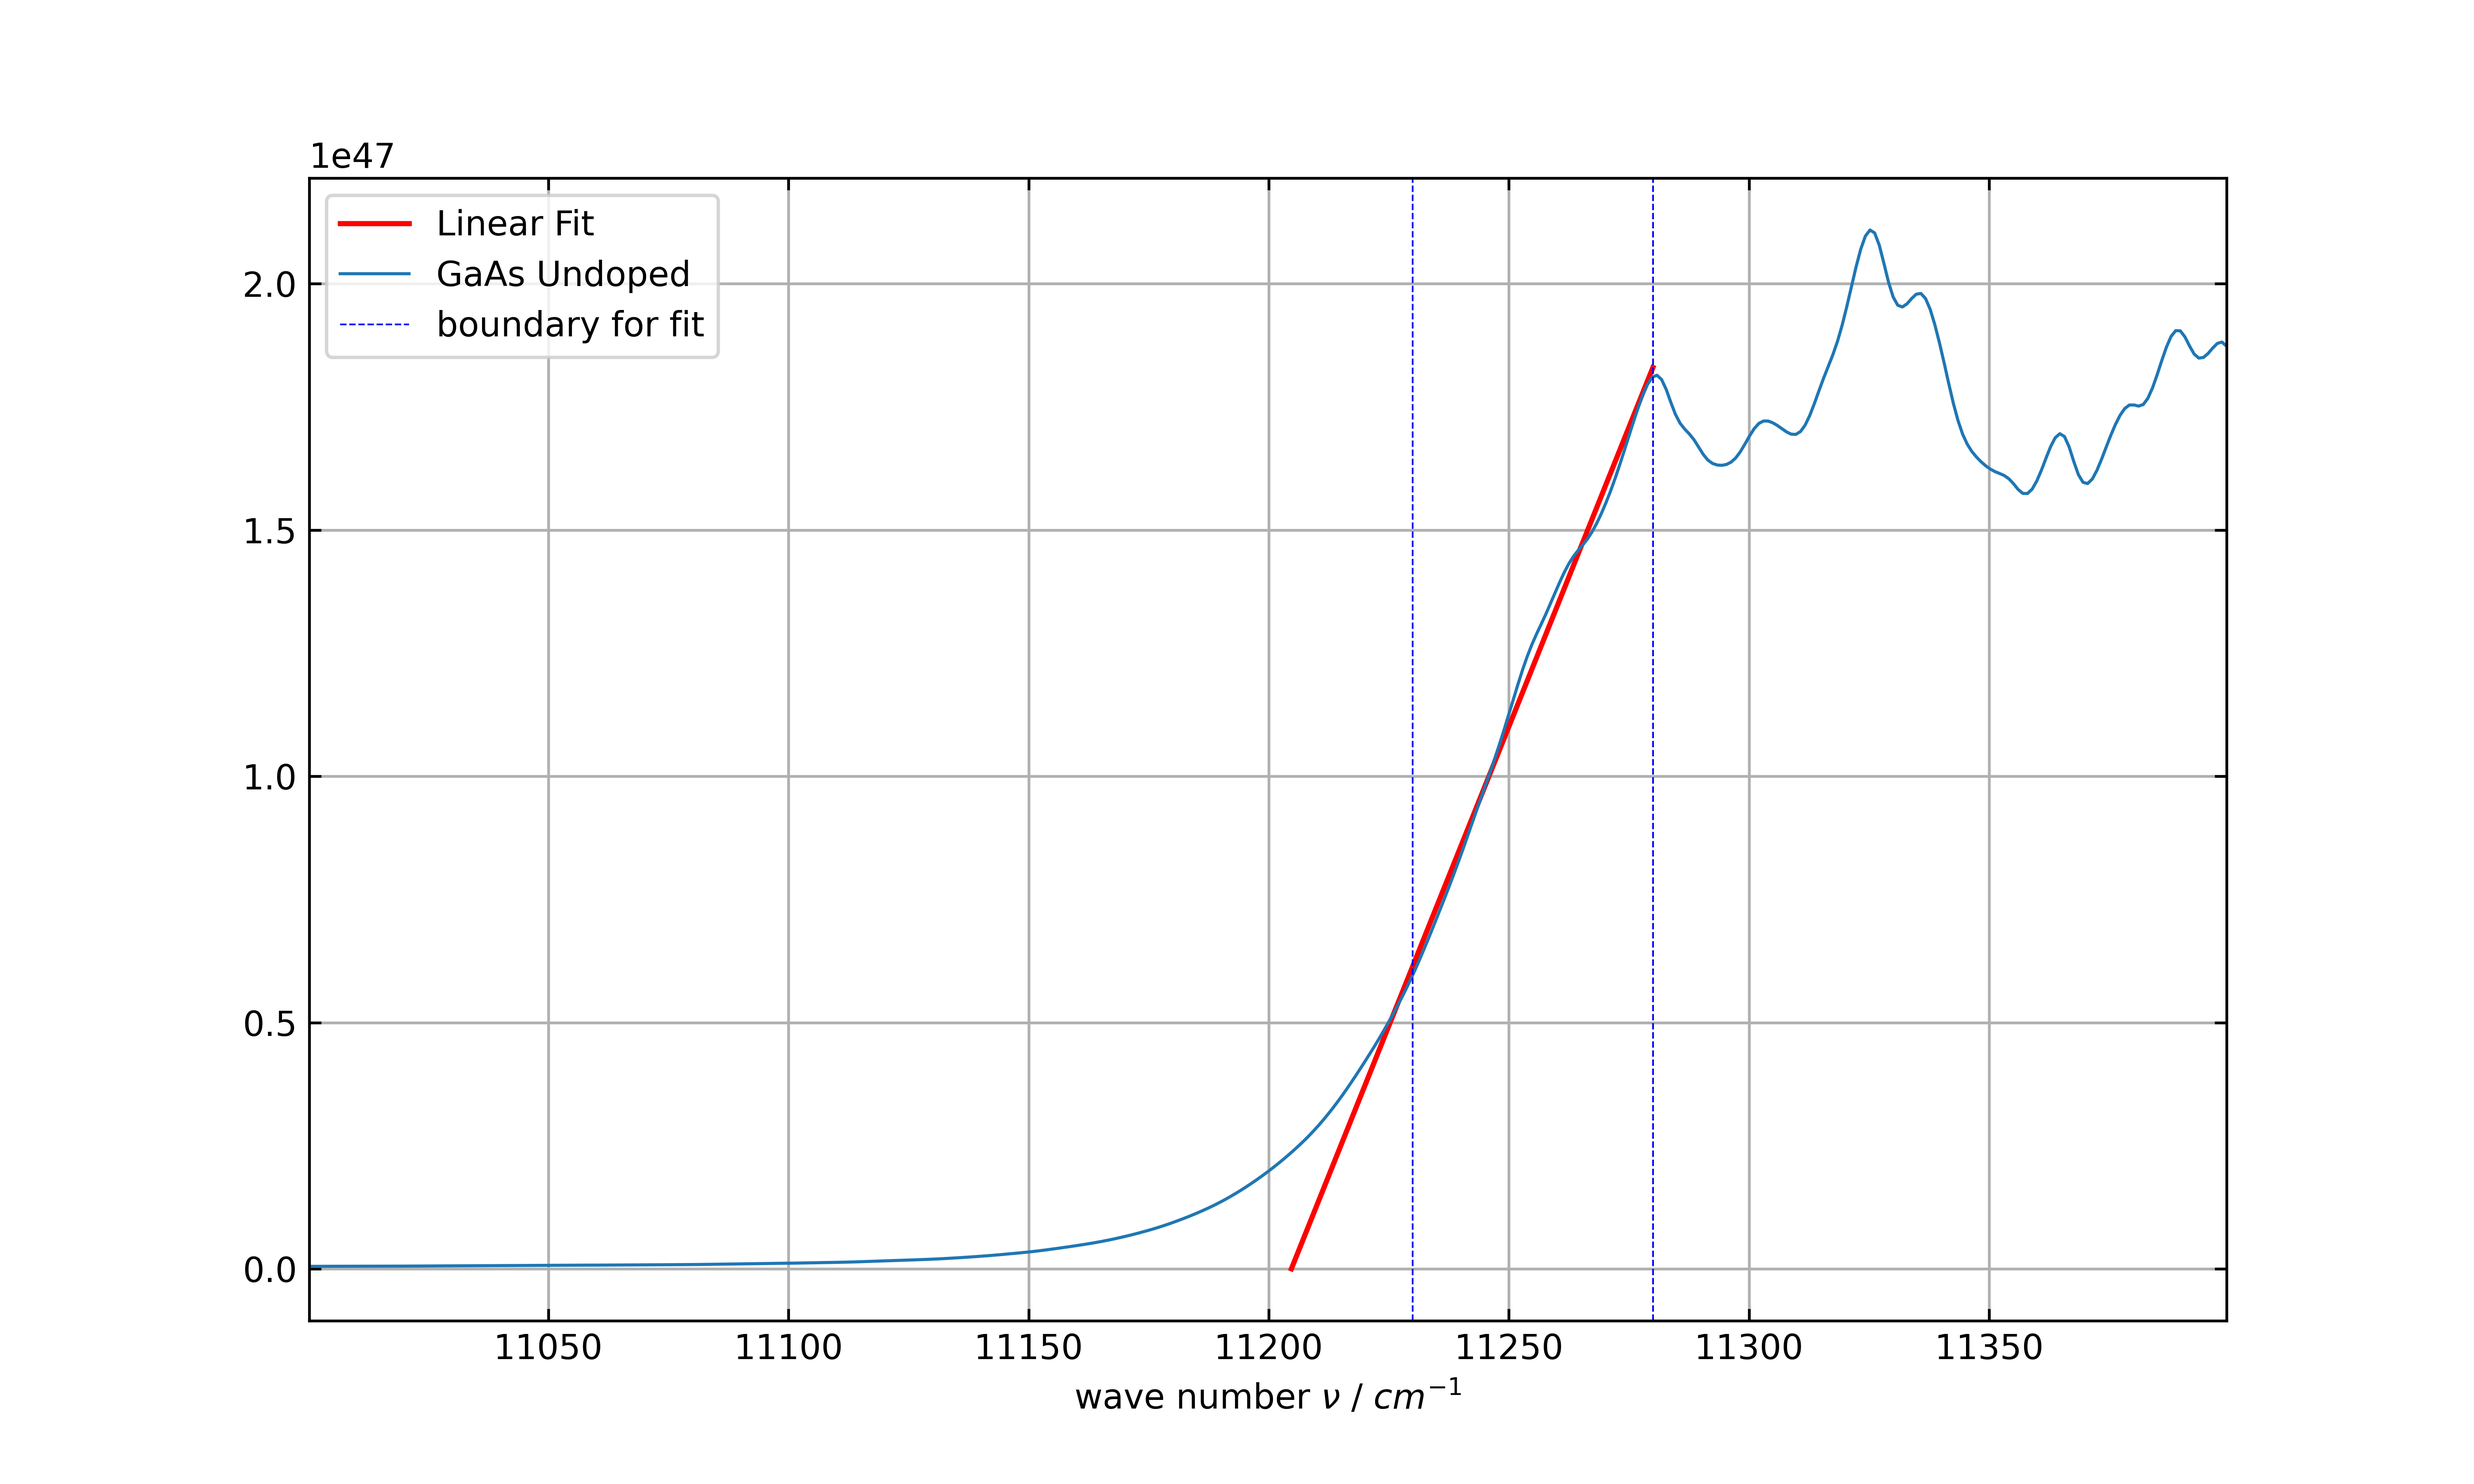
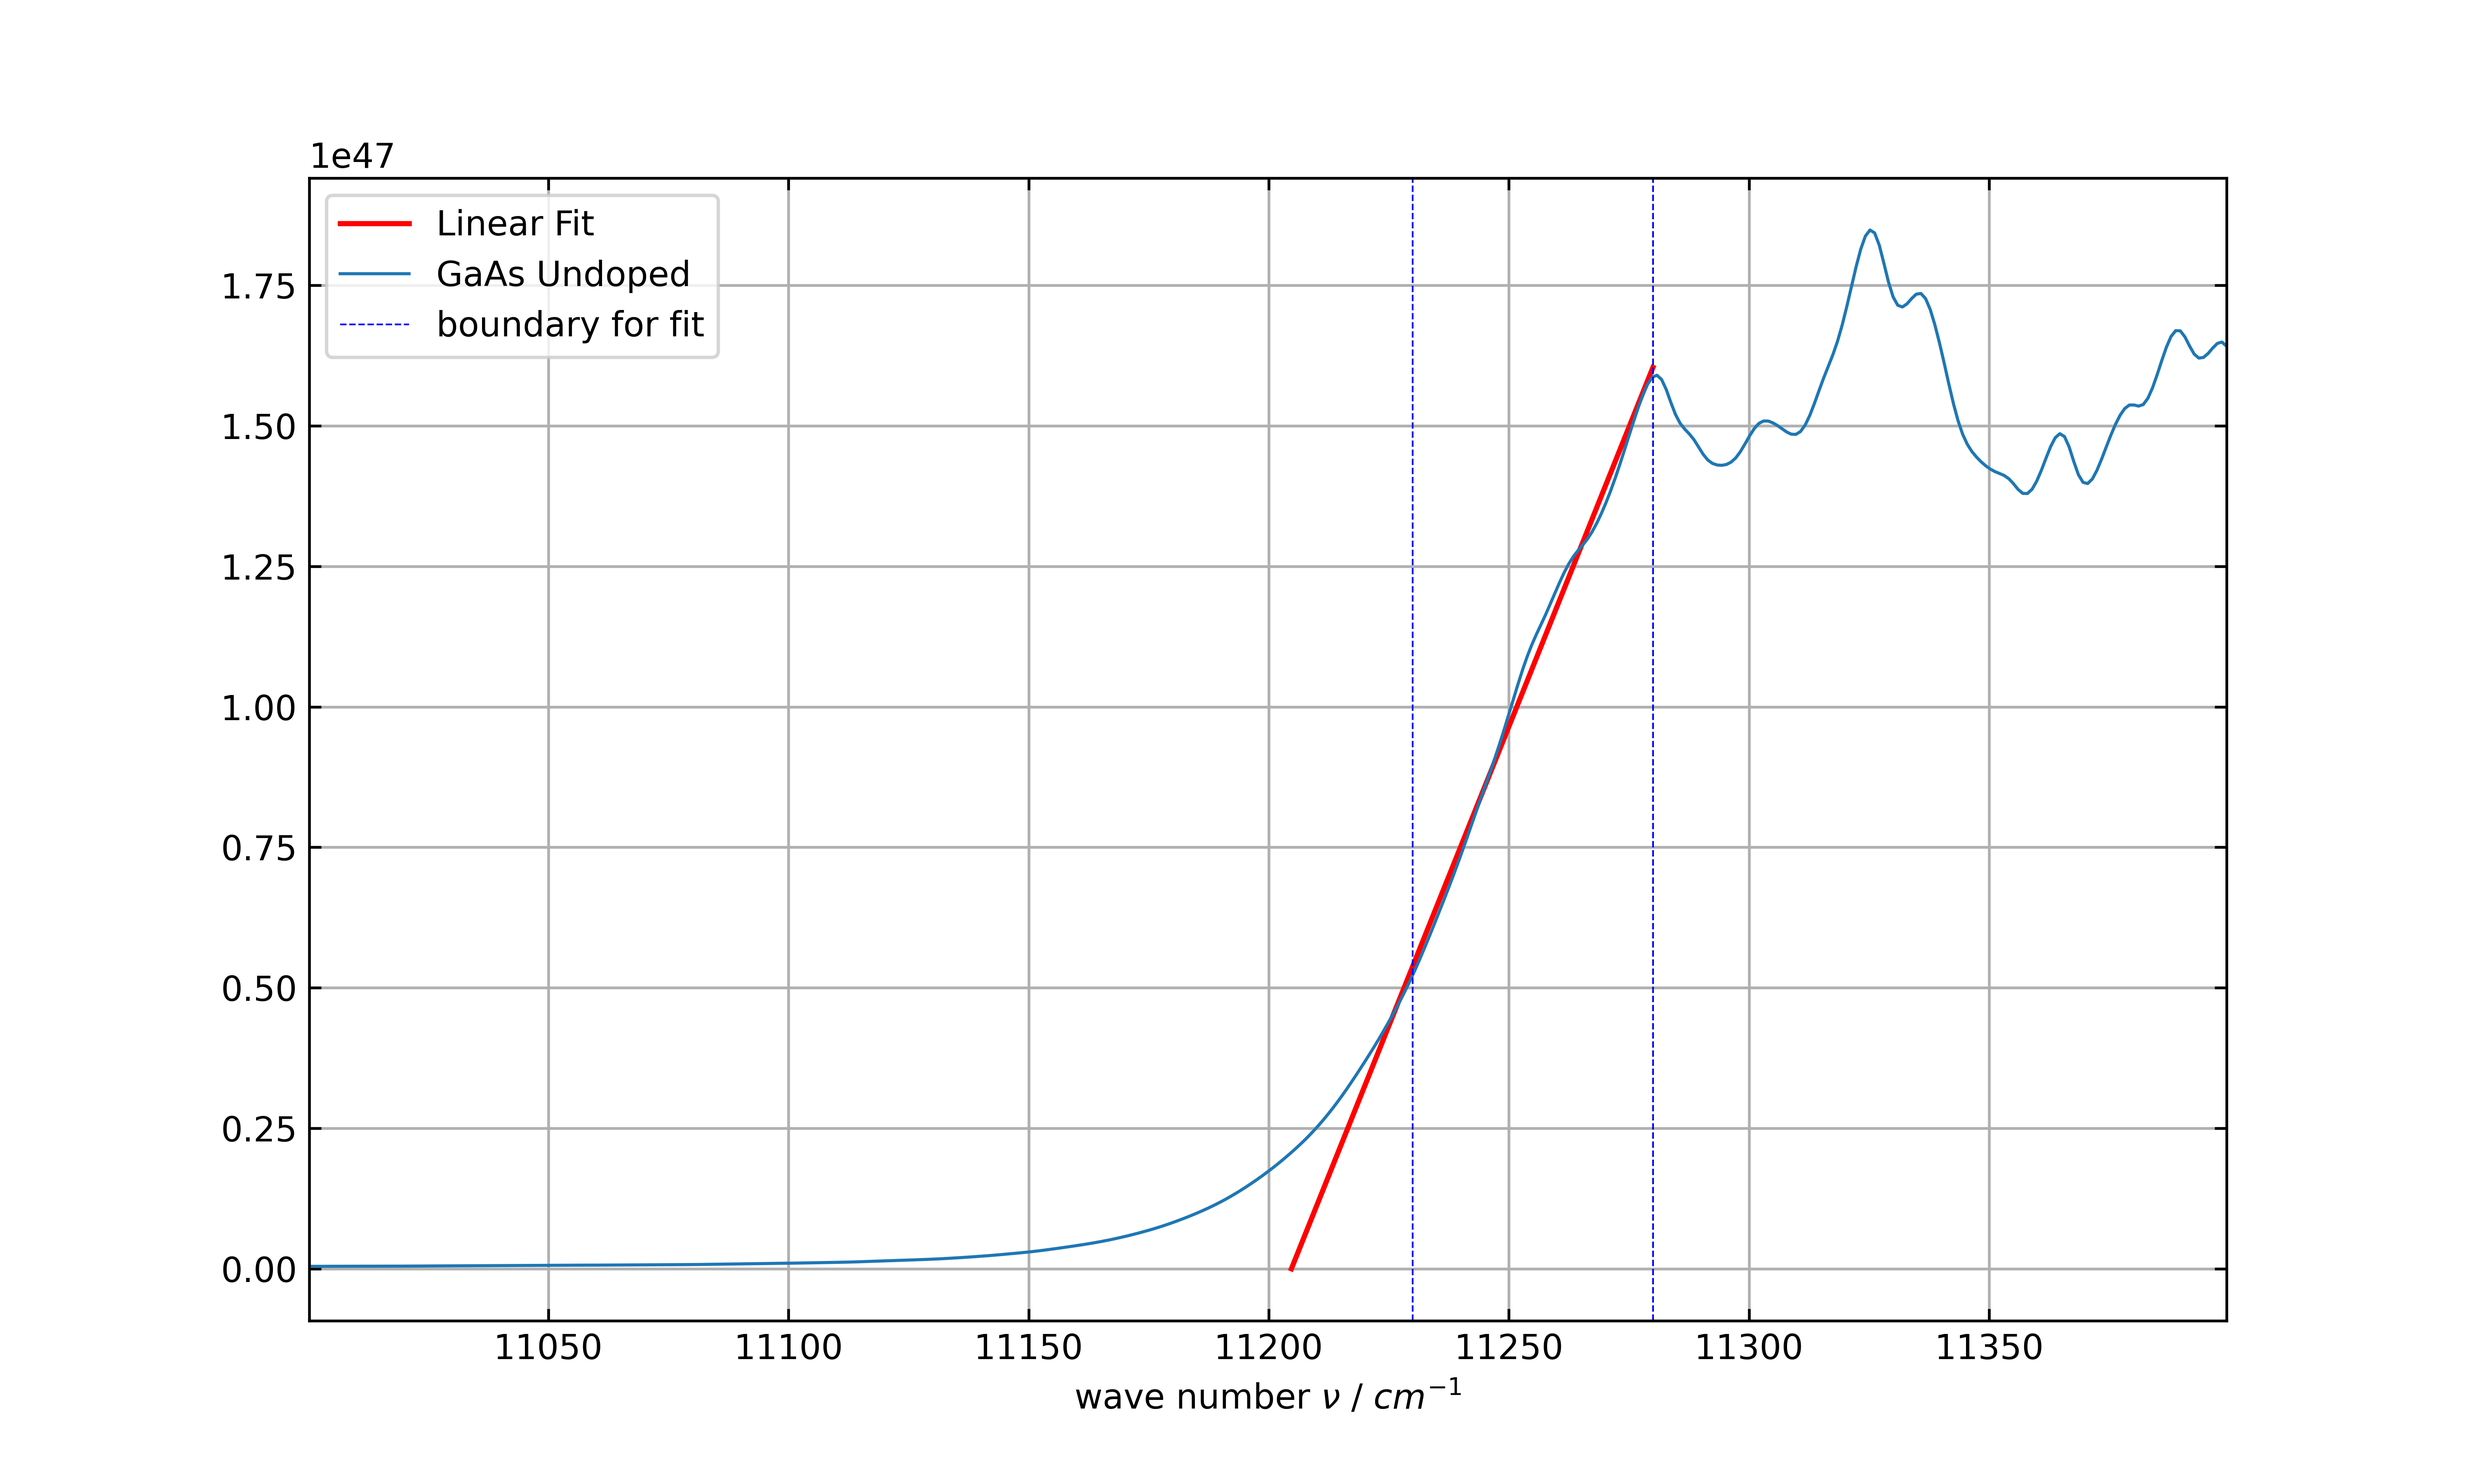
Bandgap plots gemacht

diff --git a/SolidStateOptics/exp4.py b/SolidStateOptics/exp4.py
@@ -20,32 +20,47 @@ c= const.c  # Speed of light in m/s
 mu_GaAs = 0.036872 * const.m_e  # Effective mass of electron in GaAs (müssen quelle finden!!)
 m_e = const.m_e  # Electron mass in kg
 factor = e*e*(2*mu_GaAs)**(3/2)*2*np.pi/(epsilon_0*m_e**2*hbar**3)    
-d = 440*10**-6  # Thickness of the sample in m
 
+reflectionGaAsDo = read_dpt_file(r'.\SolidStateOptics\RawData\Reflection_ex4\refl_GaAs_doped_res4_N50_normalized.DPT')
+transmissionGaAsDo = read_dpt_file(r'.\SolidStateOptics\RawData\Transmission_ex4\GaAs_doped_res4_N50_normalized.DPT')
 
+reflectionGaAsUnDo = read_dpt_file(r'.\SolidStateOptics\RawData\Reflection_ex4\refl_GaAs_undoped_res4_N50_normalized.DPT')
+transmissionGaAsUnDo = read_dpt_file(r'.\SolidStateOptics\RawData\Transmission_ex4\GaAs_undoped_res4_N50_normalized.DPT')
 
-#calculate n
+reflectionGaSbDo = read_dpt_file(r'.\SolidStateOptics\RawData\Reflection_ex4\refl_GaSb_doped_res4_N50_normalized.DPT')
+transmissionGaSbDo = read_dpt_file(r'.\SolidStateOptics\RawData\Transmission_ex4\GaSb_doped_res4_N50_normalized.DPT')
 
-initial_guess = [1,1] # Initial guess for beta and R
+reflectionSiUnDo = read_dpt_file(r'.\SolidStateOptics\RawData\Reflection_ex4\refl_Si_undoped_res4_N50_normalized.DPT')
+transmissionSiUnDo = read_dpt_file(r'.\SolidStateOptics\RawData\Transmission_ex4\Si_undoped_res4_N50_normalized.DPT')
 
-def T_fabry_perot(vars, T_fabry_perot_value):
+reflectionSiDo = read_dpt_file(r'.\SolidStateOptics\RawData\Reflection_ex4\refl_Si_doped_res4_N50_normalized.DPT')
+transmissionSiDo = read_dpt_file(r'.\SolidStateOptics\RawData\Transmission_ex4\Si_doped_res4_N50_normalized.DPT')
+
+samplesOhneSiUn = [
+        (reflectionGaAsDo, transmissionGaAsDo, "GaAs Doped", 440*10**-6),
+        (reflectionGaAsUnDo, transmissionGaAsUnDo, "GaAs Undoped", 470*10**-6),
+        (reflectionGaSbDo, transmissionGaSbDo, "GaSb Doped", 500*10**-6),
+        (reflectionSiUnDo, transmissionSiUnDo, "Si Undoped", 530*10**-6)
+    ]
+
+def T_fabry_perot(vars, T_fabry_perot_value, d):
     beta, R_halbraum = vars
     return T_fabry_perot_value - (1-R_halbraum)**2*np.exp(-beta*d)/(1-R_halbraum**2*np.exp(-2*beta*d))
 
-def R_fabry_perot(vars, R_fabry_perot_value):
+def R_fabry_perot(vars, R_fabry_perot_value, d):
     beta, R_halbraum = vars
     return R_fabry_perot_value -(R_halbraum + (1-R_halbraum)**2*R_halbraum*np.exp(-2*beta*d)/(1-R_halbraum**2*np.exp(-2*beta*d)))
 
-def equations(vars, T_fabry_perot_value, R_fabry_perot_value):
-    return [T_fabry_perot(vars, T_fabry_perot_value), R_fabry_perot(vars, R_fabry_perot_value)]
+def equations(vars, T_fabry_perot_value, R_fabry_perot_value, d):
+    return [T_fabry_perot(vars, T_fabry_perot_value, d), R_fabry_perot(vars, R_fabry_perot_value, d)]
 
 
-def calculate_beta_and_R(ReflectionData, TransmissionData):
+def calculate_beta_and_R(ReflectionData, TransmissionData, d):
     k_beta_R_List = []
     for r, t in zip(bügeln(ReflectionData,1), bügeln(TransmissionData,1)):
         initial_guess = k_beta_R_List[-1][1:] if k_beta_R_List else [10000, 0.3]  # Use last beta and R or default
         #initial_guess = [20000,0.3]
-        beta, R = fsolve(equations, initial_guess, args=(t[1], r[1]))
+        beta, R = fsolve(equations, initial_guess, args=(t[1], r[1], d))
         if beta > 28000:
             beta = k_beta_R_List[-1][1] if k_beta_R_List else 10000  # Use last beta or default
         if R >1:
@@ -54,54 +69,55 @@ def calculate_beta_and_R(ReflectionData, TransmissionData):
     return k_beta_R_List
 
 
-def calculate_kappa(ReflectionData, TransmissionData):
-    k_beta_R_List = calculate_beta_and_R(ReflectionData, TransmissionData)
+def calculate_kappa(ReflectionData, TransmissionData, d):
+    k_beta_R_List = calculate_beta_and_R(ReflectionData, TransmissionData, d)
     k_kappa_R_List = []
     for i in k_beta_R_List:
         k_kappa_R_List.append([i[0], i[1]/(2*i[0]*100), i[2]]) # 100 wegen cm^-1
     return k_kappa_R_List
 
-def calculate_k_n1_kappa(ReflectionData, TransmissionData):
-    k_kappa_R_List = calculate_kappa(ReflectionData, TransmissionData)
+def calculate_k_n1_kappa(ReflectionData, TransmissionData, d):
+    k_kappa_R_List = calculate_kappa(ReflectionData, TransmissionData, d)
     n = []
     for i in k_kappa_R_List:
         k = i[1]
         R = i[2]
         n1 = (1+R+np.sqrt(-k**2-R**2*k**2+2*R*(2+k**2)))/(1-R)
-        n2 = (-1-R+np.sqrt(-k**2-R**2*k**2+2*R*(2+k**2)))/(R-1)
+        #n2 = (-1-R+np.sqrt(-k**2-R**2*k**2+2*R*(2+k**2)))/(R-1)
                 
         n.append([i[0], n1,i[1]])
     return n
 
 def plot_the_ns(glättwert=0.02):
     plt.figure()
-    for reflection, transmission, label in samplesOhneSiUn:
+    for reflection, transmission, label, d in samplesOhneSiUn:
         n = []
-        for i in calculate_k_n1_kappa(reflection, transmission):
+        for i in calculate_k_n1_kappa(reflection, transmission, d):
             n.append([i[0], i[1]])
         plot_data(bügeln(n, glättwert), label=label)
-    plt.xlabel('wave number k / ' + r'$cm^{-1}$')
+    plt.xlabel(r'wave number $\nu$  / ' + r'$cm^{-1}$')
     plt.ylabel('n')
     save_and_open('RefractiveIndicesSmooth')
     
     
-def plot_the_betas():
+def plot_the_betas(title="foo"):
     plt.figure()
-    for reflection, transmission, label in samplesOhneSiUn:
+    for reflection, transmission, label, d in samplesOhneSiUn:
         beta = []
-        for i in calculate_beta_and_R(reflection, transmission):
-            beta.append([i[0], i[1]])
+        for i in calculate_beta_and_R(reflection, transmission, d):
+            beta.append([i[0], i[1]/100])
         plot_data(beta, label=label)
         plt.xlabel(r'wave number $\nu$ / ' + r'$cm^{-1}$')
         plt.ylabel('beta')
 
-    plt.xlabel(r'wave number \nu / ' + r'$cm^{-1}$')
-    plt.ylabel('beta')
-    save_and_open('foo')
+    plt.xlabel(r'wave number $\nu$ / ' + r'$cm^{-1}$')
+    plt.ylabel(r'absorption coefficient $\beta$ / ' + r'$cm^{-1}$')
+    plt.legend()
+    save_and_open(filename=title)
     
     
-def calculate_k_epsilon_2(reflection, transmission):
-    k_n_kappa = calculate_k_n1_kappa(reflection, transmission)
+def calculate_k_epsilon_2(reflection, transmission, d):
+    k_n_kappa = calculate_k_n1_kappa(reflection, transmission, d)
     epsilon_2 = []
     for i in k_n_kappa:
         n = i[1]
@@ -114,9 +130,9 @@ def k_chopper(data, k_min, k_max):
     return [point for point in data if k_min <= point[0] <= k_max]
 
 
-def calculate_KomischeFunktion(reflection, transmission):
+def calculate_KomischeFunktion(reflection, transmission, d):
     
-    k_epsilon_2 = calculate_k_epsilon_2(reflection, transmission)
+    k_epsilon_2 = calculate_k_epsilon_2(reflection, transmission, d)
     
     komischeFunktion = []
     for k, epsilon_2 in k_epsilon_2:
@@ -124,8 +140,8 @@ def calculate_KomischeFunktion(reflection, transmission):
     return komischeFunktion
 
 
-def plotKomischeFunktion(reflection, transmission, k_min, k_max, k_min_regression, k_max_regression, glättwert=0.01, title="foo"):
-    komischeFunktion = bügeln(calculate_KomischeFunktion(reflection, transmission),glättwert)
+def plotKomischeFunktion(reflection, transmission, k_min, k_max, k_min_regression, k_max_regression, d, glättwert=0.01, title="foo"):
+    komischeFunktion = bügeln(calculate_KomischeFunktion(reflection, transmission, d),glättwert)
     
     chopped = k_chopper(komischeFunktion, k_min=k_min_regression, k_max=k_max_regression)
     steig, x_intercept, y_intercept = linear_regression(chopped)
@@ -170,37 +186,8 @@ def linear_regression(komischeFunktion):
     
 
 
-reflectionGaAsDo = read_dpt_file(r'.\SolidStateOptics\RawData\Reflection_ex4\refl_GaAs_doped_res4_N50_normalized.DPT')
-transmissionGaAsDo = read_dpt_file(r'.\SolidStateOptics\RawData\Transmission_ex4\GaAs_doped_res4_N50_normalized.DPT')
-
-reflectionGaAsUnDo = read_dpt_file(r'.\SolidStateOptics\RawData\Reflection_ex4\refl_GaAs_undoped_res4_N50_normalized.DPT')
-transmissionGaAsUnDo = read_dpt_file(r'.\SolidStateOptics\RawData\Transmission_ex4\GaAs_undoped_res4_N50_normalized.DPT')
-
-reflectionGaSbDo = read_dpt_file(r'.\SolidStateOptics\RawData\Reflection_ex4\refl_GaSb_doped_res4_N50_normalized.DPT')
-transmissionGaSbDo = read_dpt_file(r'.\SolidStateOptics\RawData\Transmission_ex4\GaSb_doped_res4_N50_normalized.DPT')
-
-reflectionSiUnDo = read_dpt_file(r'.\SolidStateOptics\RawData\Reflection_ex4\refl_Si_undoped_res4_N50_normalized.DPT')
-transmissionSiUnDo = read_dpt_file(r'.\SolidStateOptics\RawData\Transmission_ex4\Si_undoped_res4_N50_normalized.DPT')
-
-reflectionSiDo = read_dpt_file(r'.\SolidStateOptics\RawData\Reflection_ex4\refl_Si_doped_res4_N50_normalized.DPT')
-transmissionSiDo = read_dpt_file(r'.\SolidStateOptics\RawData\Transmission_ex4\Si_doped_res4_N50_normalized.DPT')
-
-samplesOhneSiUn = [
-        (reflectionGaAsDo, transmissionGaAsDo, "GaAs Doped"),
-        (reflectionGaAsUnDo, transmissionGaAsUnDo, "GaAs Undoped"),
-        (reflectionGaSbDo, transmissionGaSbDo, "GaSb Doped"),
-        (reflectionSiUnDo, transmissionSiUnDo, "Si UnDoped")
-    ]
-
-# n1=[]
-# for i in calculate_n(reflection, transmission):
-#     n1.append([i[0], i[1]])
-# plot_data(n1)
-# save_and_open("foo")
 
 
-
-#plot_the_betas()
 
 # kappa =[]
 # for i in calculate_kappa(reflectionGaAsDo, transmissionGaAsDo):
@@ -211,15 +198,26 @@ samplesOhneSiUn = [
 # save_and_open('foo')
 
 
-plotKomischeFunktion(reflectionGaAsDo, transmissionGaAsDo, 10500, 12000, 11120, 11200, glättwert=0.03, title="GaAs Doped")
-plotKomischeFunktion(reflectionGaAsUnDo, transmissionGaAsUnDo, 11000, 11400, 11230, 11280, glättwert=0.1, title="GaAs Undoped")
-plotKomischeFunktion(reflectionGaSbDo, transmissionGaSbDo, 5000, 6000, 5600, 5680, glättwert=0.1, title="GaSb Doped")
-plotKomischeFunktion(reflectionSiUnDo, transmissionSiUnDo, 9000, 11000, 10050, 10250, glättwert=0.1, title="Si Undoped")
 
 
 
 
-#plot_the_ns(0.005)
+
+
+
+
+
+
+plotKomischeFunktion(reflectionGaAsDo, transmissionGaAsDo, 10500, 12000, 11120, 11200, samplesOhneSiUn[0][3], glättwert=0.03, title="GaAs Doped")
+plotKomischeFunktion(reflectionGaAsUnDo, transmissionGaAsUnDo, 11000, 11400, 11230, 11280, samplesOhneSiUn[1][3], glättwert=0.1, title="GaAs Undoped")
+plotKomischeFunktion(reflectionGaSbDo, transmissionGaSbDo, 5000, 6000, 5600, 5680, samplesOhneSiUn[2][3], glättwert=0.1, title="GaSb Doped")
+plotKomischeFunktion(reflectionSiUnDo, transmissionSiUnDo, 9000, 11000, 10050, 10250, samplesOhneSiUn[3][3], glättwert=0.1, title="Si Undoped")
+
+
+plot_the_ns(0.005)
+
+plot_the_betas()
+
 
 
 
